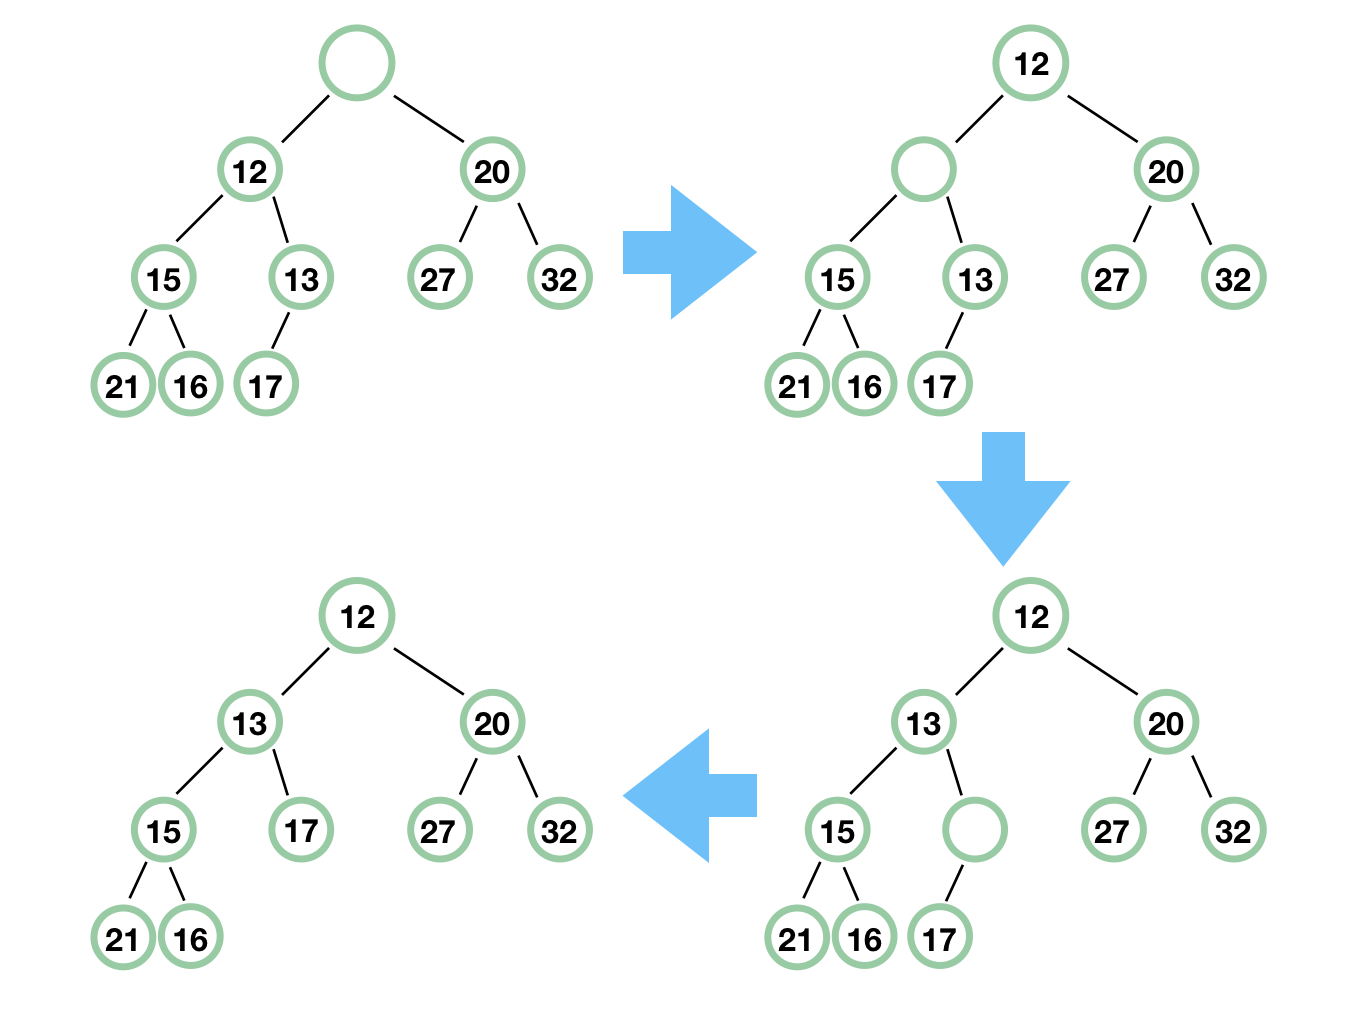
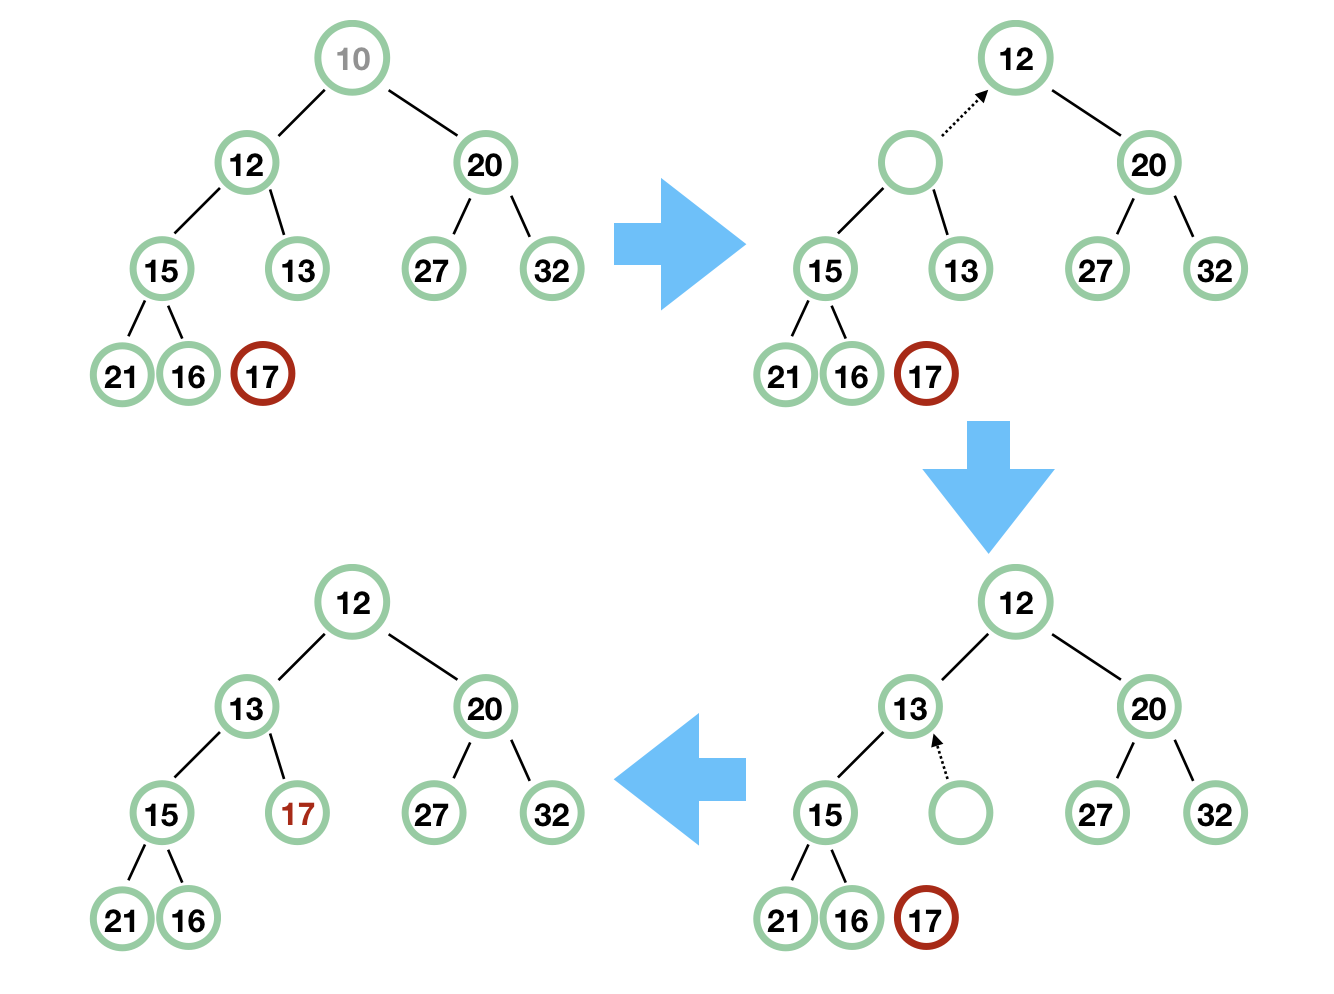
Site updated: 2017-09-03 21:45:29

diff --git a/2017/08/22/java-concurrent-queue/index.html b/2017/08/22/java-concurrent-queue/index.html
@@ -105,7 +105,8 @@
 <meta property="og:image" content="http://yoursite.com/2017/08/22/java-concurrent-queue/priority-blocking-queue-1.png">
 <meta property="og:image" content="http://yoursite.com/2017/08/22/java-concurrent-queue/priority-blocking-queue-2.png">
 <meta property="og:image" content="http://yoursite.com/2017/08/22/java-concurrent-queue/priority-blocking-queue-3.png">
-<meta property="og:updated_time" content="2017-08-22T14:17:52.000Z">
+<meta property="og:image" content="http://yoursite.com/2017/08/22/java-concurrent-queue/priority-blocking-queue-4.png">
+<meta property="og:updated_time" content="2017-09-03T13:45:16.000Z">
 <meta name="twitter:card" content="summary">
 <meta name="twitter:title" content="解读 java 并发队列 BlockingQueue">
 <meta name="twitter:description" content="最近得空，想写篇文章好好说说 java 线程池问题，我相信很多人都一知半解的，包括我自己在仔仔细细看源码之前，也有许多的不解，甚至有些地方我一直都没有理解到位。 说到线程池实现，那么就不得不涉及到各种 BlockingQueue 的实现，那么我想就 BlockingQueue 的问题和大家分享分享我了解的一些知识。 本文没有像之前分析 AQS 那样一行一行源码分析了，不过还是把其中最重要和最难理解">
@@ -396,7 +397,6 @@
 <li><a href="#总结">总结</a></li>
 </ul>
 <!-- tocstop -->
-<p>[TOC]</p>
 <h2 id="blockingqueue"><a href="#BlockingQueue" class="headerlink" title="BlockingQueue"></a>BlockingQueue</h2><p>首先，最基本的来说， BlockingQueue 是一个<strong>先进先出</strong>的队列（Queue），为什么说是阻塞（Blocking）的呢？是因为 BlockingQueue 支持当获取队列元素但是队列为空时，会阻塞等待队列中有元素再返回；也支持添加元素时，如果队列已满，那么等到队列可以放入新元素时再放入。</p>
 <p>BlockingQueue 是一个接口，继承自 Queue，所以其实现类也可以作为 Queue 的实现来使用，而 Queue 又继承自 Collection 接口。</p>
 <p>BlockingQueue 对插入操作、移除操作、获取元素操作提供了四种不同的方法用于不同的场景中使用：1、抛出异常；2、返回特殊值（null 或 true/false，取决于具体的操作）；3、阻塞等待此操作，直到这个操作成功；4、阻塞等待此操作，直到成功或者超时指定时间。总结如下：</p>
@@ -539,6 +539,9 @@
 <p>废话不多说，出队是非常简单的，因为队头就是最小的元素，对应的是数组的第一个元素。难点是队头出队后，需要调整树。</p>
 <figure class="highlight java"><table><tr><td class="gutter"><pre><div class="line">1</div><div class="line">2</div><div class="line">3</div><div class="line">4</div><div class="line">5</div><div class="line">6</div><div class="line">7</div><div class="line">8</div><div class="line">9</div><div class="line">10</div><div class="line">11</div><div class="line">12</div><div class="line">13</div><div class="line">14</div><div class="line">15</div><div class="line">16</div><div class="line">17</div><div class="line">18</div><div class="line">19</div><div class="line">20</div><div class="line">21</div><div class="line">22</div><div class="line">23</div><div class="line">24</div><div class="line">25</div><div class="line">26</div><div class="line">27</div><div class="line">28</div><div class="line">29</div><div class="line">30</div><div class="line">31</div></pre></td><td class="code"><pre><div class="line"><span class="keyword">private</span> <span class="keyword">static</span> &lt;T&gt; <span class="function"><span class="keyword">void</span> <span class="title">siftDownComparable</span><span class="params">(<span class="keyword">int</span> k, T x, Object[] array,</span></span></div><div class="line">                                           <span class="keyword">int</span> n) &#123;</div><div class="line">    <span class="keyword">if</span> (n &gt; <span class="number">0</span>) &#123;</div><div class="line">        Comparable&lt;? <span class="keyword">super</span> T&gt; key = (Comparable&lt;? <span class="keyword">super</span> T&gt;)x;</div><div class="line">        <span class="comment">// 这里得到的 half 肯定是非叶节点</span></div><div class="line">        <span class="comment">// a[n] 是最后一个元素，其父节点是 a[(n-1)/2]。所以 n &gt;&gt;&gt; 1 代表的节点肯定不是叶子节点</span></div><div class="line">        <span class="comment">// 下面，我们结合图来一行行分析，这样比较直观简单</span></div><div class="line">        <span class="comment">// 此时 k 为 0, x 为 17，n 为 9</span></div><div class="line">        <span class="keyword">int</span> half = n &gt;&gt;&gt; <span class="number">1</span>; <span class="comment">// 得到 half = 4</span></div><div class="line">        <span class="keyword">while</span> (k &lt; half) &#123;</div><div class="line">            <span class="comment">// 先取左子节点</span></div><div class="line">            <span class="keyword">int</span> child = (k &lt;&lt; <span class="number">1</span>) + <span class="number">1</span>; <span class="comment">// 得到 child = 1</span></div><div class="line">            Object c = array[child];  <span class="comment">// c = 12</span></div><div class="line">            <span class="keyword">int</span> right = child + <span class="number">1</span>;  <span class="comment">// right = 2</span></div><div class="line">            <span class="comment">// 如果右子节点存在，而且比左子节点小</span></div><div class="line">            <span class="comment">// 此时 array[right] = 20，所以条件不满足</span></div><div class="line">            <span class="keyword">if</span> (right &lt; n &amp;&amp;</div><div class="line">                ((Comparable&lt;? <span class="keyword">super</span> T&gt;) c).compareTo((T) array[right]) &gt; <span class="number">0</span>)</div><div class="line">                c = array[child = right];</div><div class="line">            <span class="comment">// key = 17, c = 12，所以条件不满足</span></div><div class="line">            <span class="keyword">if</span> (key.compareTo((T) c) &lt;= <span class="number">0</span>)</div><div class="line">                <span class="keyword">break</span>;</div><div class="line">            <span class="comment">// 把 12 填充到根节点</span></div><div class="line">            array[k] = c;</div><div class="line">            <span class="comment">// k 赋值后为 1</span></div><div class="line">            k = child;</div><div class="line">            <span class="comment">// 一轮过后，我们发现，12 左边的子树和刚刚的差不多，都是缺少根节点，接下来处理就简单了</span></div><div class="line">        &#125;</div><div class="line">        array[k] = key;</div><div class="line">    &#125;</div><div class="line">&#125;</div></pre></td></tr></table></figure>
 <p><img src="/2017/08/22/java-concurrent-queue/priority-blocking-queue-3.png" alt="priority-blocking-queue-3"></p>
+<p>记住二叉堆是一棵完全二叉树，那么根节点 10 拿掉后，最后面的元素 17 必须找到合适的地方放置。首先，17 和 10 不能直接交换，那么先将根节点 10 的左右子节点中较小的节点往上滑，即 12 往上滑，然后原来 12 留下了一个空节点，然后再把这个空节点的较小的子节点往上滑，即 13 往上滑，最后，留出了位子，17 补上即可。</p>
+<p>我稍微调整下这个树，以便读者能更明白：</p>
+<p><img src="/2017/08/22/java-concurrent-queue/priority-blocking-queue-4.png" alt="priority-blocking-queue-4"></p>
 <p>好了， PriorityBlockingQueue 我们也说完了。</p>
 <h2 id="总结"><a href="#总结" class="headerlink" title="总结"></a>总结</h2><p>我知道本文过长，相信一字不漏看完的读者肯定是少数。</p>
 <p>ArrayBlockingQueue 底层是数组，有界队列，如果我们要使用生产者-消费者模式，这是非常好的选择。</p>

diff --git a/css/main.css b/css/main.css
@@ -1676,7 +1676,7 @@ pre .javascript .function {
   width: 4px;
   height: 4px;
   border-radius: 50%;
-  background: #afa8d2;
+  background: #c3329c;
 }
 .links-of-blogroll {
   font-size: 13px;
